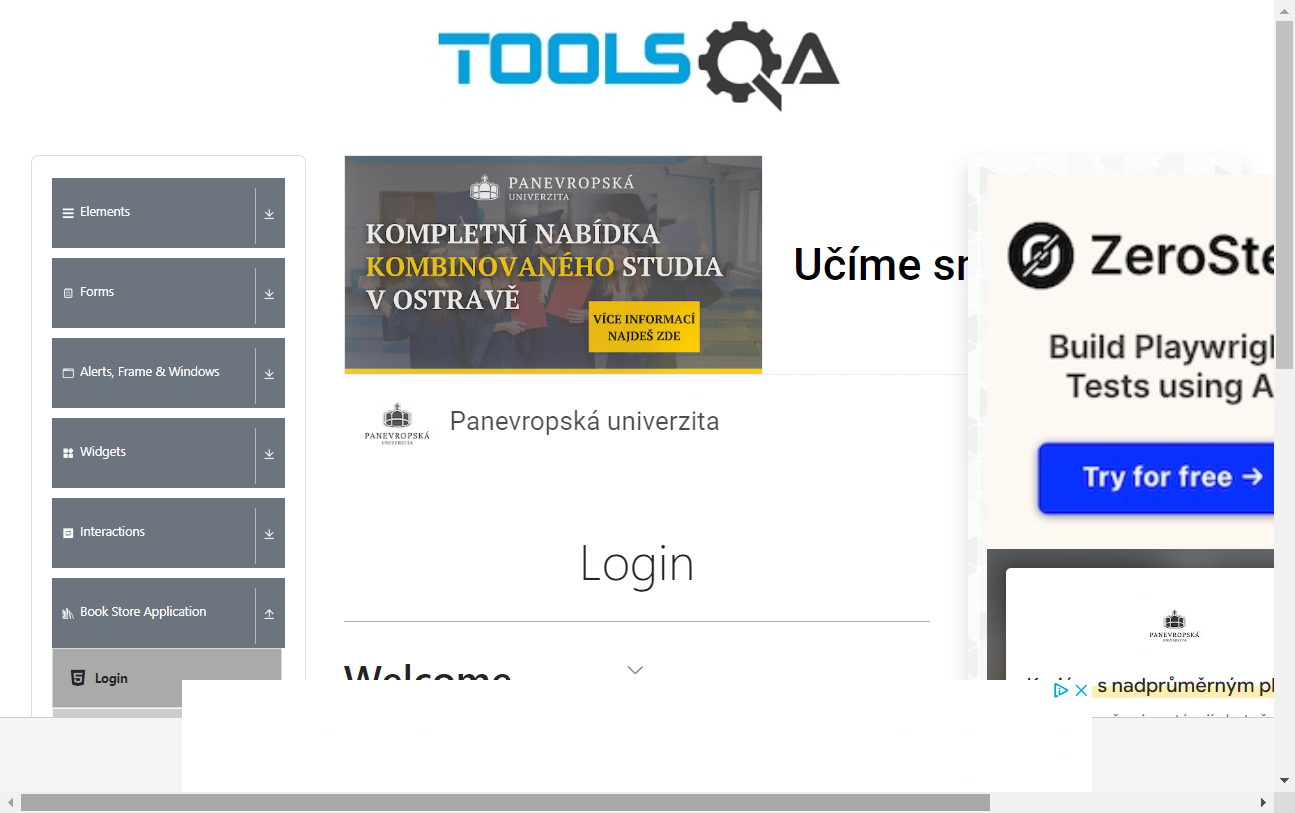
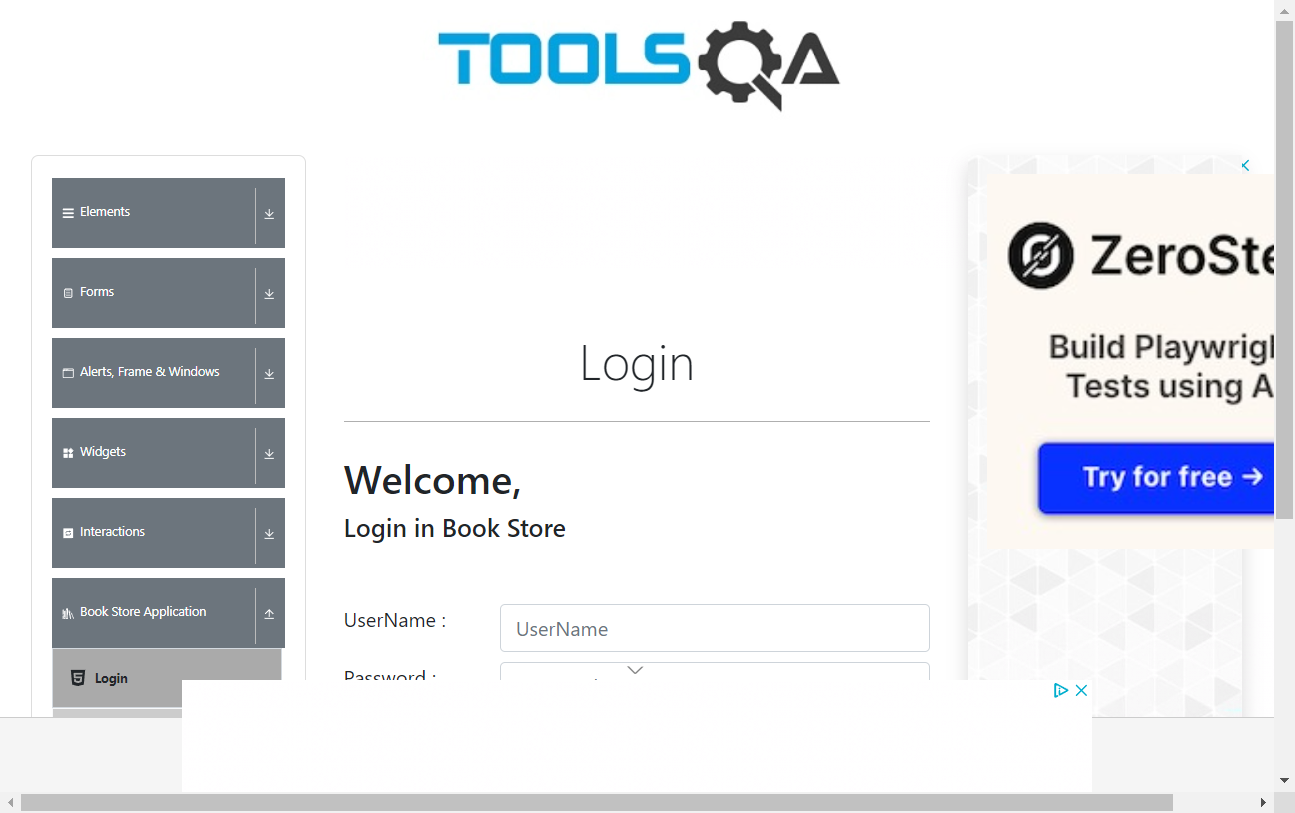
login-page

diff --git a/test/specs/test.e2e.js b/test/specs/test.e2e.js
@@ -1,0 +1,36 @@
+import { expect } from '@wdio/globals'
+import LoginPage from '../pageobjects/login.page.js'
+import SecurePage from '../pageobjects/secure.page.js'
+
+
+describe('Demoqa Login Page', async () => {
+
+    beforeEach (async() =>
+    { 
+        await browser.url('/');
+    });
+
+    it('should open login page', async () => {
+        await browser.url('/login')
+        await browser.saveScreenshot('login_page.png');
+
+        const title = await $('h2');
+        await expect (await title.getText()).toContain('Welcome,');
+
+        const customerUserNameField =  await $('input[id="userName"]');
+        await expect(customerUserNameField).toBeDisplayed();
+        await expect(customerUserNameField).toBeEnabled();
+
+        const customerPasswordField = await $('input[id="password"]');
+        await expect(customerPasswordField).toBeDisplayed();
+        await expect(customerPasswordField).toBeEnabled();
+
+        const loginButton = await $('#login');
+        await expect(loginButton).toBeClickable();
+
+        const newUserButton = await $('#newUser');
+        await expect(newUserButton).toBeClickable();
+        
+    });
+})
+

diff --git a/test/pageobjects/login.page.js b/test/pageobjects/login.page.js
@@ -1,0 +1,41 @@
+import { $ } from '@wdio/globals'
+import Page from './page.js';
+
+/**
+ * sub page containing specific selectors and methods for a specific page
+ */
+class LoginPage extends Page {
+    /**
+     * define selectors using getter methods
+     */
+    get inputUsername () {
+        return $('#username');
+    }
+
+    get inputPassword () {
+        return $('#password');
+    }
+
+    get btnSubmit () {
+        return $('button[type="submit"]');
+    }
+
+    /**
+     * a method to encapsule automation code to interact with the page
+     * e.g. to login using username and password
+     */
+    async login (username, password) {
+        await this.inputUsername.setValue(username);
+        await this.inputPassword.setValue(password);
+        await this.btnSubmit.click();
+    }
+
+    /**
+     * overwrite specific options to adapt it to page object
+     */
+    open () {
+        return super.open('login');
+    }
+}
+
+export default new LoginPage();

diff --git a/test/specs/fixtures.js b/test/specs/fixtures.js
@@ -1,0 +1,8 @@
+export const customerPage = 'https://demoqa.com/login'
+export const customerUserName = 'JajinekObecny';
+export const customerPassword = '!Yu*bxZwb76j4v7';
+export const loggedUser = 'JajinekObecny'; // better option would be Jajinek Obecny (space between name and surname)
+export const customerFirstName = 'Jajinek';
+export const customerLastName = 'Obecny';
+
+export const passwordErrorNote = "Passwords must have at least one non alphanumeric character, one digit ('0'-'9'), one uppercase ('A'-'Z'), one lowercase ('a'-'z'), one special character and Password must be eight characters or longer."

diff --git a/test/pageobjects/page.js b/test/pageobjects/page.js
@@ -1,0 +1,15 @@
+import { browser } from '@wdio/globals'
+
+/**
+* main page object containing all methods, selectors and functionality
+* that is shared across all page objects
+*/
+export default class Page {
+    /**
+    * Opens a sub page of the page
+    * @param path path of the sub page (e.g. /path/to/page.html)
+    */
+    open (path) {
+        return browser.url(`/`)
+    }
+}

diff --git a/test/pageobjects/secure.page.js b/test/pageobjects/secure.page.js
@@ -1,0 +1,16 @@
+import { $ } from '@wdio/globals'
+import Page from './page.js';
+
+/**
+ * sub page containing specific selectors and methods for a specific page
+ */
+class SecurePage extends Page {
+    /**
+     * define selectors using getter methods
+     */
+    get flashAlert () {
+        return $('#flash');
+    }
+}
+
+export default new SecurePage();
